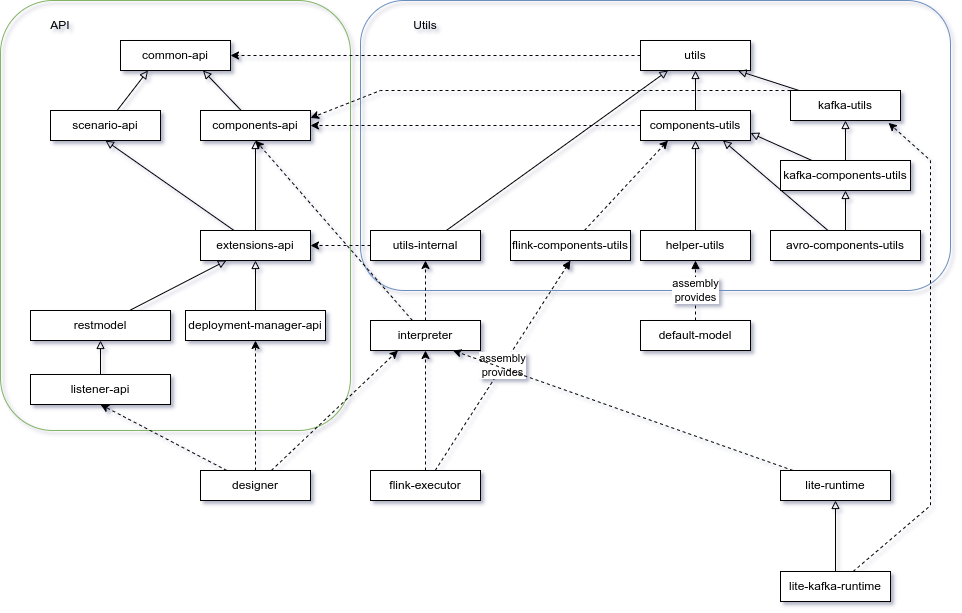
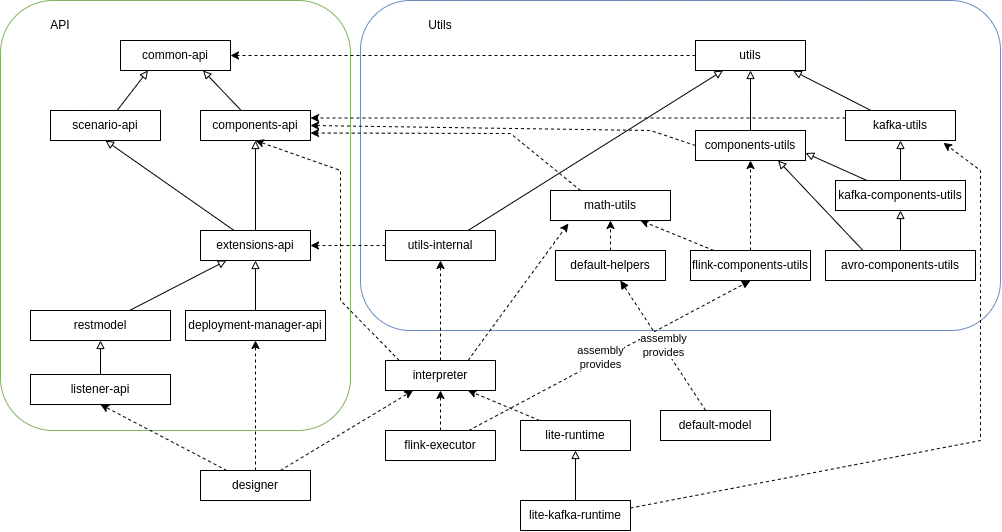
Remove dependency from helper utils (#3431)
* Removed components-utils from helper-utils dependencies

* Removed utils dependency from helper-utils

* Created math-utils

* Added dependency to interpreter and updated docs

* Removed cyclic dependency

* Renamed helper-utils to default-helpers

* Added migration guide entry

diff --git a/docs/MigrationGuide.md b/docs/MigrationGuide.md
@@ -7,6 +7,9 @@ To see the biggest differences please consult the [changelog](Changelog.md).
 * [#3370](https://github.com/TouK/nussknacker/pull/3370) Feature: scenario node category verification on validation
   From now import scenario with nodes from other categories than scenario category will be not allowed.
 * [#3406](https://github.com/TouK/nussknacker/pull/3406) Migration from Scalatest 3.0.8 to Scalatest 3.2.10 - if necessary, see the Scalatest migration guides, https://www.scalatest.org/release_notes/3.1.0 and https://www.scalatest.org/release_notes/3.2.0
+* [#3431](https://github.com/TouK/nussknacker/pull/3431) Renamed 
+  `helper-utils` to `default-helpers`, separated `MathUtils` from
+  `components-utils` to `math-utils`, removed dependencies from `helper-utils`
 
 ## In version 1.5.0
 
